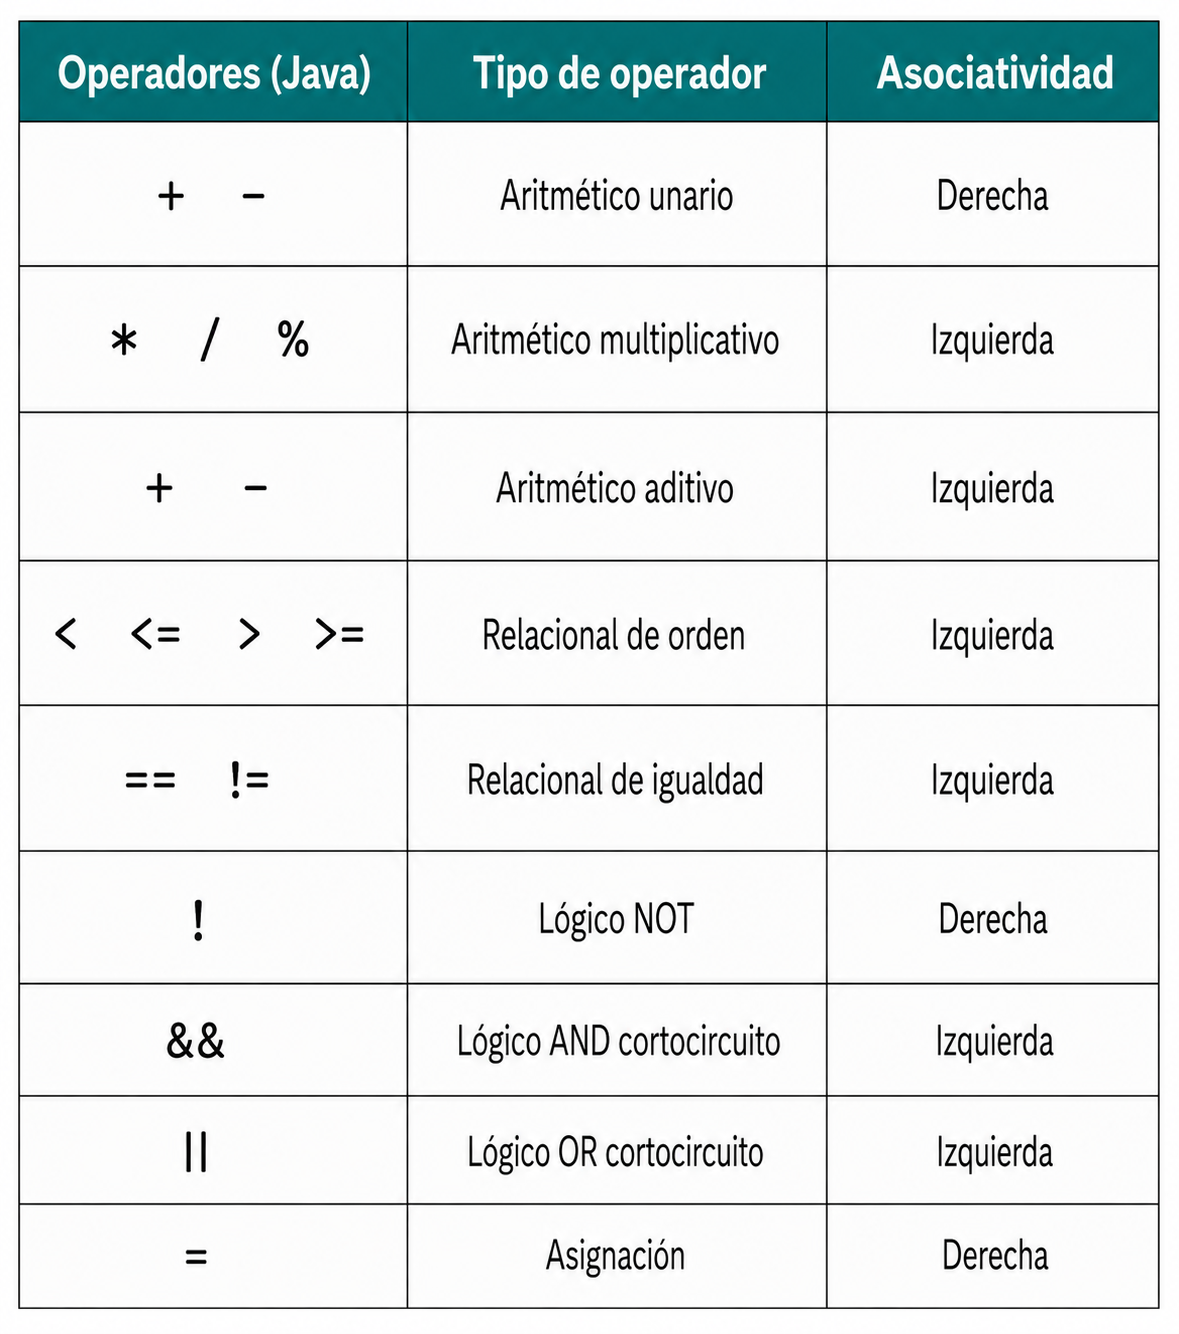
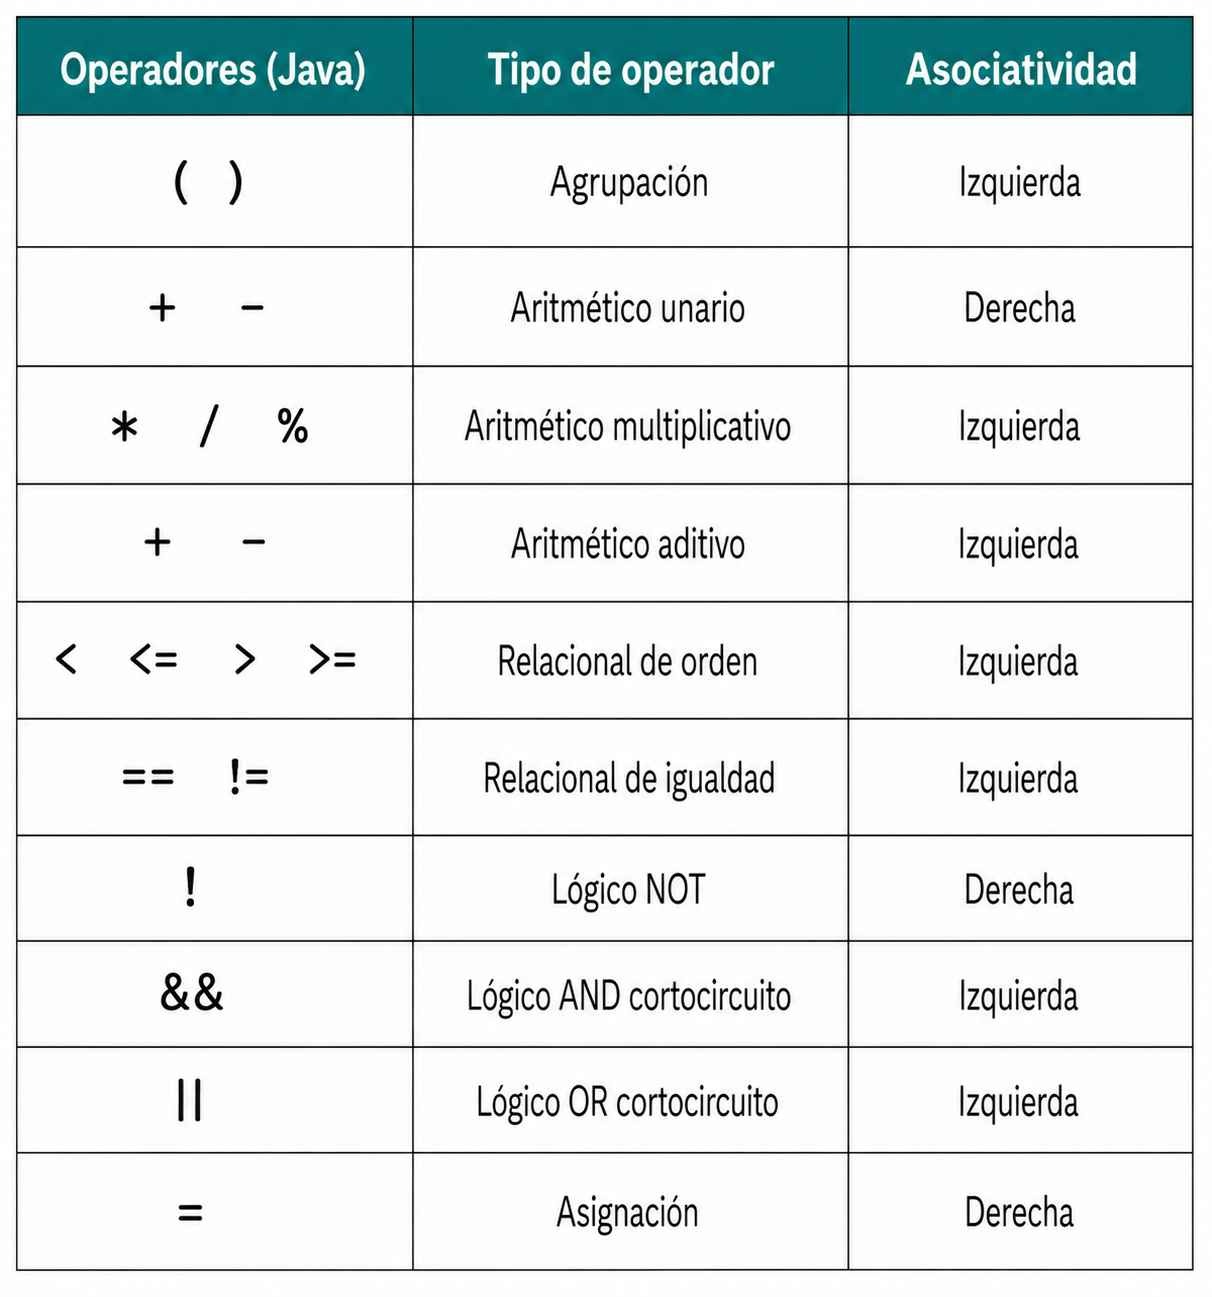
avanzamos

diff --git a/estilos/estilo.css b/estilos/estilo.css
@@ -14,7 +14,7 @@
     font-weight: bold;
     font-family: Courier, 'Courier New', 'Lucida Console', monospace;
 }
-.literal, .operador, .variable, .clase, .instancia, .metodo,
+.literal, .operador, .constante, .variable, .clase, .instancia, .metodo,
 .produccion-palabra {
     font-family: Courier, 'Courier New', 'Lucida Console', monospace;
 }

diff --git a/temas/tema_03.md b/temas/tema_03.md
@@ -948,7 +948,7 @@ La precedencia determina la jerarquía de los operadores en una expresión. De f
 
 En la cima de esta jerarquía se sitúan siempre los paréntesis <span class="literal">()</span>, que funcionan como una herramienta soberana para que el programador pueda forzar el orden de evaluación deseado, sobrescribiendo cualquier regla predefinida.
 
-<figure class="img-lateral-izd">
+<figure class="img-lateral-izq">
     <img src="../imagenes/03_03_operadores.png" alt="Operadores de Java, según precedencia, con su tipo y asociatividad">
 </figure>
 
@@ -970,11 +970,68 @@ Aunque las reglas de precedencia permiten escribir expresiones muy compactas, se
 
 ## Conversión de tipos
 
+En el transcurso de este texto, hemos subrayado que Java es un lenguaje fuertemente tipado, lo que implica una vigilancia estricta sobre la naturaleza de los tipos de datos que manejamos. Sin embargo, en la práctica de la programación, es habitual encontrarnos con situaciones en las que necesitamos combinar operandos de distinta naturaleza dentro de una misma expresión o asignación. Por ejemplo, podríamos querer sumar un valor entero con uno real o asignar el resultado de un cálculo preciso a una variable con una capacidad de representación diferente.
+
+Dado que el ordenador almacena internamente los números enteros y los de punto flotante de maneras totalmente distintas —utilizando patrones de bits que no guardan parecido entre sí—, el sistema no puede operar con ellos de forma directa sin realizar un ajuste previo.
+
+Este proceso de transformación se denomina técnicamente **conversión de tipos**. La conversión es el mecanismo que garantiza la compatibilidad entre los elementos de una operación, permitiendo que el compilador traduzca nuestras intenciones lógicas a instrucciones que la máquina virtual pueda procesar sin ambigüedades. Dependiendo de cómo se inicie este proceso, las conversiones pueden ser **implícitas**, cuando el compilador las realiza de forma automática al detectar una mezcla de tipos en una expresión, o **explícitas**, cuando nosotros, como programadores, debemos intervenir deliberadamente mediante una operación específica conocida como *casting*.
+
+<aside class="definicion">
+
+**Conversión de tipos (*Type Conversion*):** Proceso mediante el cual un valor de un tipo de dato determinado se transforma en otro equivalente de un tipo diferente.
+
+</aside>
+
+Un aspecto crítico que debemos considerar al tratar con estas transformaciones es la seguridad de la información. No todas las conversiones son iguales desde el punto de vista del rigor de los datos; mientras que algunas son seguras porque el tipo de destino es capaz de representar perfectamente el valor original, otras pueden implicar una pérdida de precisión o el truncamiento de valores decimales. Por ello, el uso de conversiones explícitas no es solo un requisito gramatical en ciertos contextos, sino también una práctica de calidad que deja claro que la mezcla de tipos es intencionada y no fruto de un descuido. Dominar la mecánica de estas conversiones es esencial para asegurar que los datos se procesen con exactitud.
+
 ### Reglas de promoción
+
+Las reglas de promoción constituyen la base de las **conversiones implícitas** o automáticas. Este fenómeno ocurre sin la intervención directa del programador cuando el compilador detecta que en una operación aritmética o lógica conviven operandos de distinta precisión o capacidad de representación. En estos escenarios, para poder ejecutar la instrucción, el sistema «promociona» el valor de menor rango al tipo de datos más amplio presente en la expresión, garantizando que no se produzca una pérdida de información durante el cálculo.
+
+Técnicamente, estas transformaciones se denominan **conversiones de ampliación** (*widening conversions*), ya que el tipo de destino posee una capacidad igual o superior al de origen, lo que las convierte en operaciones intrínsecamente seguras. En el caso de Java se sigue una jerarquía estricta para realizar estos ajustes automáticos, basada en el rango numérico y en la distinción entre tipos enteros y reales:
+
+* **Prioridad de la precisión real:** Si al menos uno de los operandos en una expresión es de tipo <span class="palabra">double</span>, el otro operando se convierte automáticamente a <span class="palabra">double</span> antes de realizar la operación. En caso de que no haya un <span class="palabra">double</span> pero sí un componente de tipo <span class="palabra">float</span>, el resto de los elementos se promocionan a <span class="palabra">float</span>.
+* **Jerarquía de tipos enteros:** Si no existen tipos reales involucrados, pero uno de los operandos es de tipo <span class="palabra">long</span>, el sistema promociona los demás operandos de la expresión a <span class="palabra">long</span>[^13].
+* **Promoción obligatoria a entero:** Un aspecto singular de Java es el tratamiento de los tipos de menor capacidad. En cualquier cálculo donde intervengan variables de tipo <span class="palabra">byte</span> o <span class="palabra">short</span>, el compilador las promociona automáticamente a <span class="palabra">int</span> antes de efectuar la operación, incluso si ambos operandos son del mismo tipo.
+* **Tratamiento de caracteres:** De igual forma, el tipo <span class="palabra">char</span> recibe un trato especial; dado que Java almacena los caracteres como valores numéricos sin signo (basados en el estándar Unicode), estos pueden participar en expresiones aritméticas, en cuyo caso se promocionan automáticamente a su equivalente de tipo <span class="palabra">int</span>.
+
+Este mecanismo asegura que los resultados intermedios de una expresión se almacenen en variables temporales con el tipo de mayor capacidad que intervenga en la operación, permitiendo que el software maneje la complejidad de los datos de forma fluida. No obstante, aunque la promoción automática facilita el desarrollo al evitar farragosas conversiones manuales, el programador debe conocer estas reglas para prever el tipo de dato resultante y asegurar que el procesamiento de la información sea coherente con el diseño previsto.
 
 ### Conversión explícita
 
+A diferencia de las reglas de promoción, que actúan de forma automática, existen situaciones en las que el sistema no puede —o no debe— realizar el ajuste de tipos por su cuenta. Esto sucede principalmente cuando intentamos realizar una *narrowing conversion*, en la que queremos asignar un valor de un tipo con mayor capacidad de representación a una variable de un tipo menor o cuando la transformación implica un riesgo intrínseco de pérdida de información. En estos casos, Java requiere una orden directa del programador mediante una operación denominada **conversión explícita** o, más habitualmente, ***casting***.
+
+<aside class="definicion">
+
+**Casting:** Operación explícita indicada por el programador para forzar la conversión de un tipo de dato a otro.
+
+**Widening conversions:** Conversión de ampliación de un tipo de datos a otro de mayor capacidad o precisión.
+
+**Narrowing conversion:** Conversión de reducción de un tipo de datos a otro de menor capacidad o precisión , asumiendo el riesgo de pérdida de información.
+
+</aside>
+
+Para indicar al compilador nuestra intención de realizar un *cast*, debemos utilizar una sintaxis específica, colocando el tipo de destino entre paréntesis justo antes de la expresión que deseamos transformar.
+
+Al realizar un *cast*, el programador asume la responsabilidad total de la operación, informando al compilador de que es consciente del riesgo y de que la mezcla de tipos es intencionada. El uso de la conversión explícita conlleva consecuencias críticas en la integridad de los datos que debemos conocer para evitar errores lógicos:
+
+* **Truncamiento de decimales:** Cuando se convierte un número real (como un <span class="palabra">double</span> o <span class="palabra">float</span>) a un tipo entero (<span class="palabra">int</span>, <span class="palabra">long</span>, etc.), Java no realiza un redondeo matemático al valor más cercano; en su lugar, trunca: elimina la parte fraccionaria. Por ejemplo, realizar un *cast* a entero del valor 3.99 producirá como resultado el número entero 3.
+* **Pérdida de bits significativos:** Si intentamos forzar un número entero grande en un tipo que utiliza menos bits (como pasar de <span class="palabra">int</span> a <span class="palabra">bite</span>), el ordenador descartará los bits más significativos para que el valor encaje en el espacio de destino[^14]. Resulta imprescindible validar el rango del número a convertir.
+* **Restricciones de tipo:** No todas las conversiones son posibles. Por ejemplo, en Java es estrictamente imposible convertir tipos numéricos a booleanos, ni siquiera mediante conversión explícita.
+
 ### Clases envolventes
+
+Para completar nuestra comprensión sobre la transformación de datos, es imprescindible abordar el papel de las **clases envolventes**, conocidas como *wrappers*.
+
+Java mantiene una distinción fundamental entre los tipos de datos primitivos y los referenciados. Sin embargo, existen numerosos escenarios en los que necesitamos tratar un valor simple como si fuera un objeto, ya sea para utilizar ciertas funcionalidades de la biblioteca estándar o para facilitar procesos de conversión complejos que los tipos básicos no pueden realizar por sí mismos.
+
+Las clases envolventes son, en esencia, clases diseñadas para actuar como un complemento de los tipos primitivos, empaquetando un valor elemental dentro de una estructura de objeto. Java proporciona una de estas clases para cada uno de los tipos fundamentales: <span class="clase">Byte</span>, <span class="clase">Short</span>, <span class="clase">Integer</span>, <span class="clase">Long</span>, <span class="clase">Float</span>, <span class="clase">Double</span>, <span class="clase">Character</span> y <span class="clase">Boolean</span>. Observamos que, siguiendo las reglas de nomenclatura del lenguaje, sus nombres comienzan siempre con una letra mayúscula. El nombre de la clase envolvente coincide con el del tipo primitivo, excepción hecha de <span class="palabra">int</span> y <span class="palabra">char</span>, que se corresponden, respectivamente, con <span class="clase">Integer</span> y <span class="clase">Character</span>.
+
+Java convierte automáticamente de un tipo primitivo a un objeto de la clase envolvente equivalente, **boxing**, y viceversa, **unboxing**. Debemos tener en cuenta que solo es posible la conversión entre tipos equivalentes, es decir, que no podemos, por ejemplo, convertir un <span class="palabra">int</span> en <span class="clase">Byte</span>. Y aunque podamos hacer el *cast* entre tipos primitivos, ello tampoco es posible entre objetos de las clases envolventes.
+
+Estas clases, además, nos proporcionan constantes y métodos asociados a los tipos primitivos que representan como: <span class="clase">Integer</span><span class="operador">.</span><span class="costante">MIN_VALUE</span> e <span class="clase">Integer</span><span class="operador">.</span><span class="costante">MAX_VALUE</span>, los valores enteros menor y mayor representables en Java.
+
+En el ámbito de la conversión de tipos, su utilidad reside en la capacidad para transformar información textual en valores operativos para el ordenador. Dado que muchas operaciones de entrada de datos devuelven los resultados en forma de un objeto <span class="clase">String</span>, el programador debe recurrir a métodos específicos. Métodos como <span class="clase">Integer</span><span class="operador">.</span><span class="metodo">parseInt</span> o <span class="clase">Double</span><span class="operador">.</span><span class="metodo">parseDouble</span> permiten analizar el contenido de una cadena y obtener su valor numérico. Es vital validar estas operaciones , pues si el texto analizado no representa un número válido (por ejemplo, intentar convertir "Hola" a un entero), el sistema interrumpirá el flujo de control una excepción de tipo <span class="clase">NumberFormatException</span>.
 
 ## Uso de la biblioteca estándar
 
@@ -1046,3 +1103,5 @@ Aunque las reglas de precedencia permiten escribir expresiones muy compactas, se
 [^10]: Disponible en la [especificación](https://docs.oracle.com/javase/specs/jls/se21/html/jls-15.html#jls-15.17.3).
 [^11]: Los booleanos corresponden a un tipo de datos lógico que solo pueden contener uno de dos valores: verdadero (<span class="literal">true</span>) y falso (<span class="literal">false</span>).
 [^12]: Es evidente que esta afirmación carece de sentido si estás haciendo un examen en el que debes demostrar conocer cuál es el orden de precedencia y asociatividad de los operadores.
+[^13]: Resulta interesante notar que un long (entero de 64 bits) se promociona automáticamente a float (real de 32 bits) si coinciden en una expresión. Aunque el float ocupa menos memoria, su notación científica le otorga una capacidad de representación de magnitudes exponencialmente mayor, considerándose por tanto un tipo más "amplio", aunque se pierda precisión en los dígitos menos significativos.
+[^14]: Internamente, al pasar a un tipo entero más pequeño, elimina los bits de la izquierda. En la representación binaria en complemento a dos, esto puede alterar el bit de signo: por ejemplo, la conversión de 1234 a byte produce el número -46.
